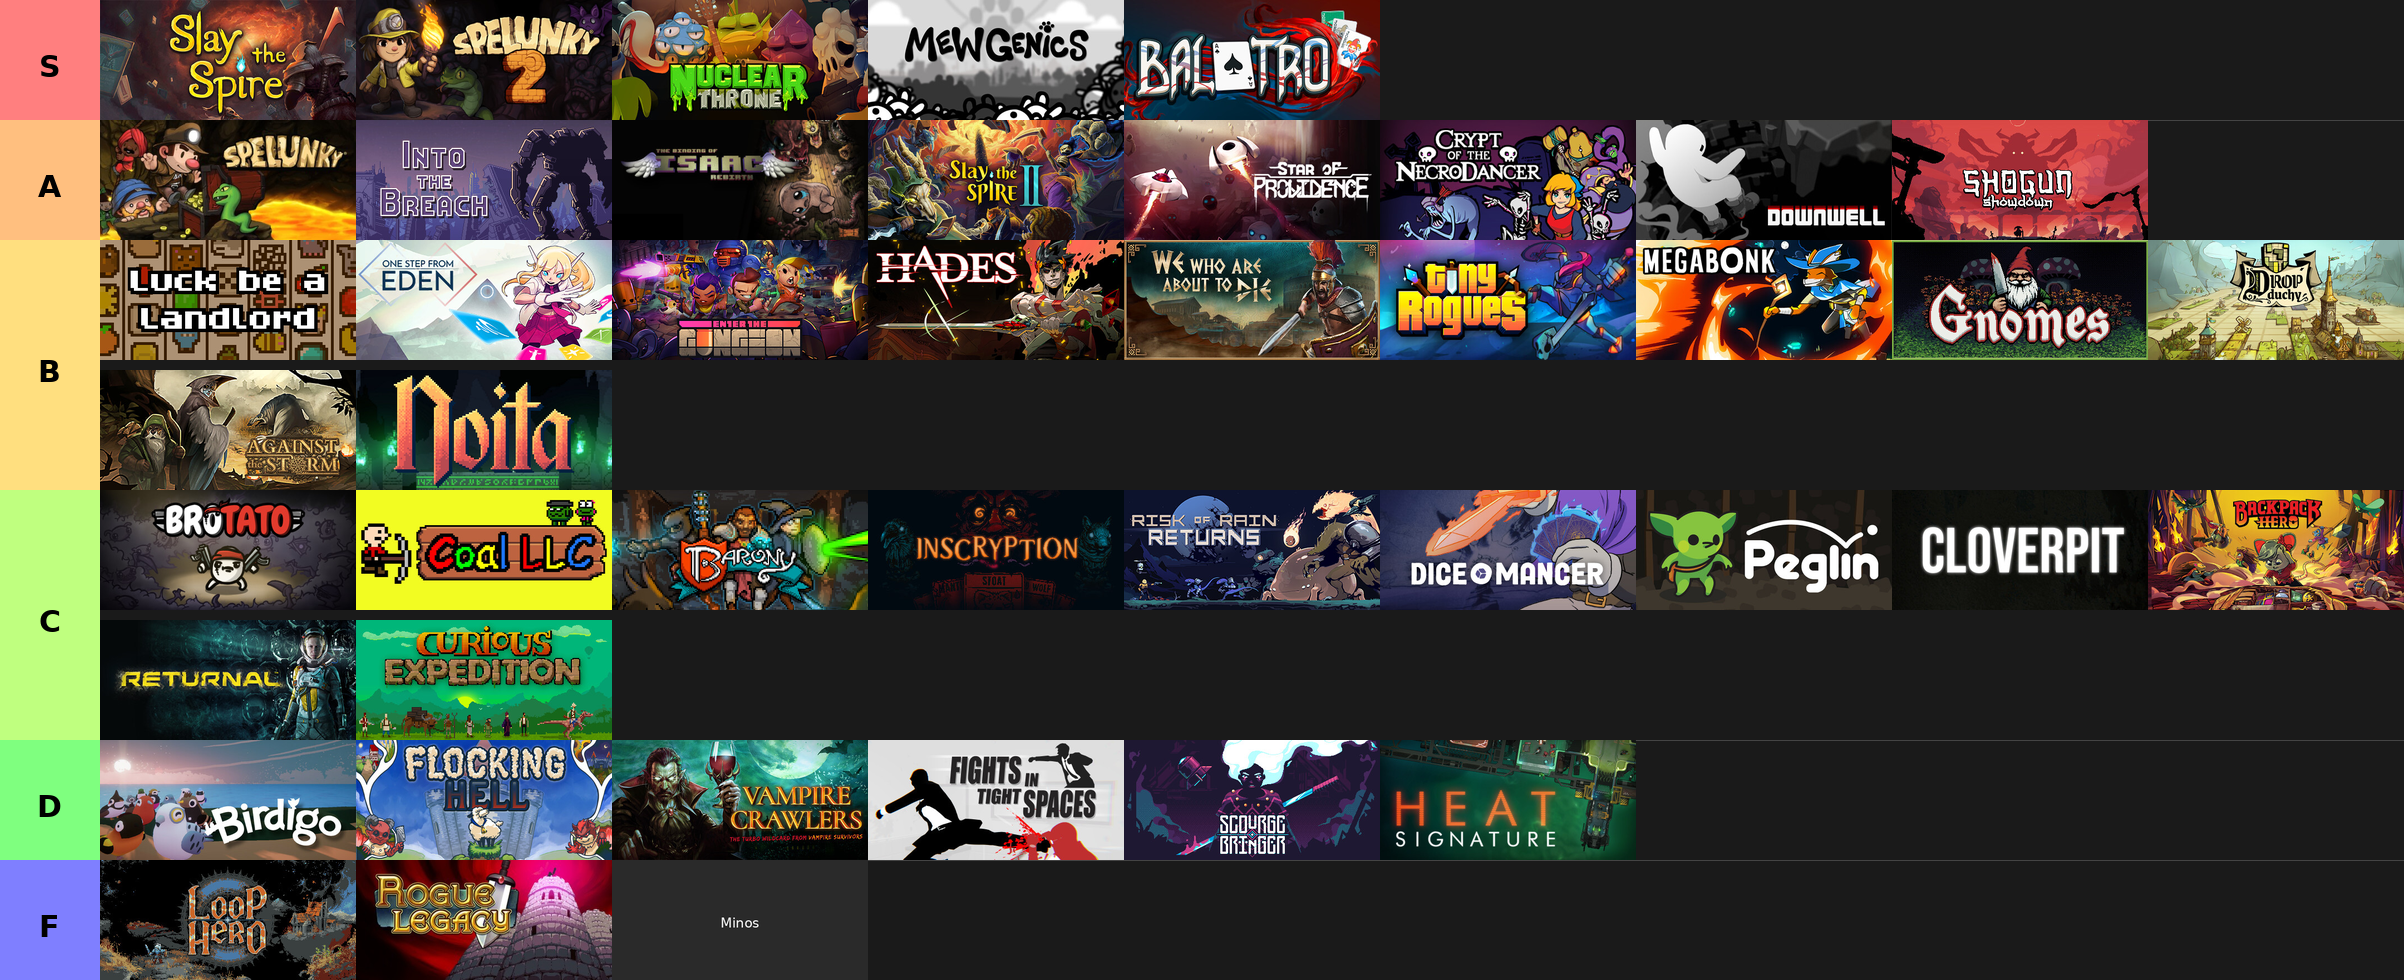
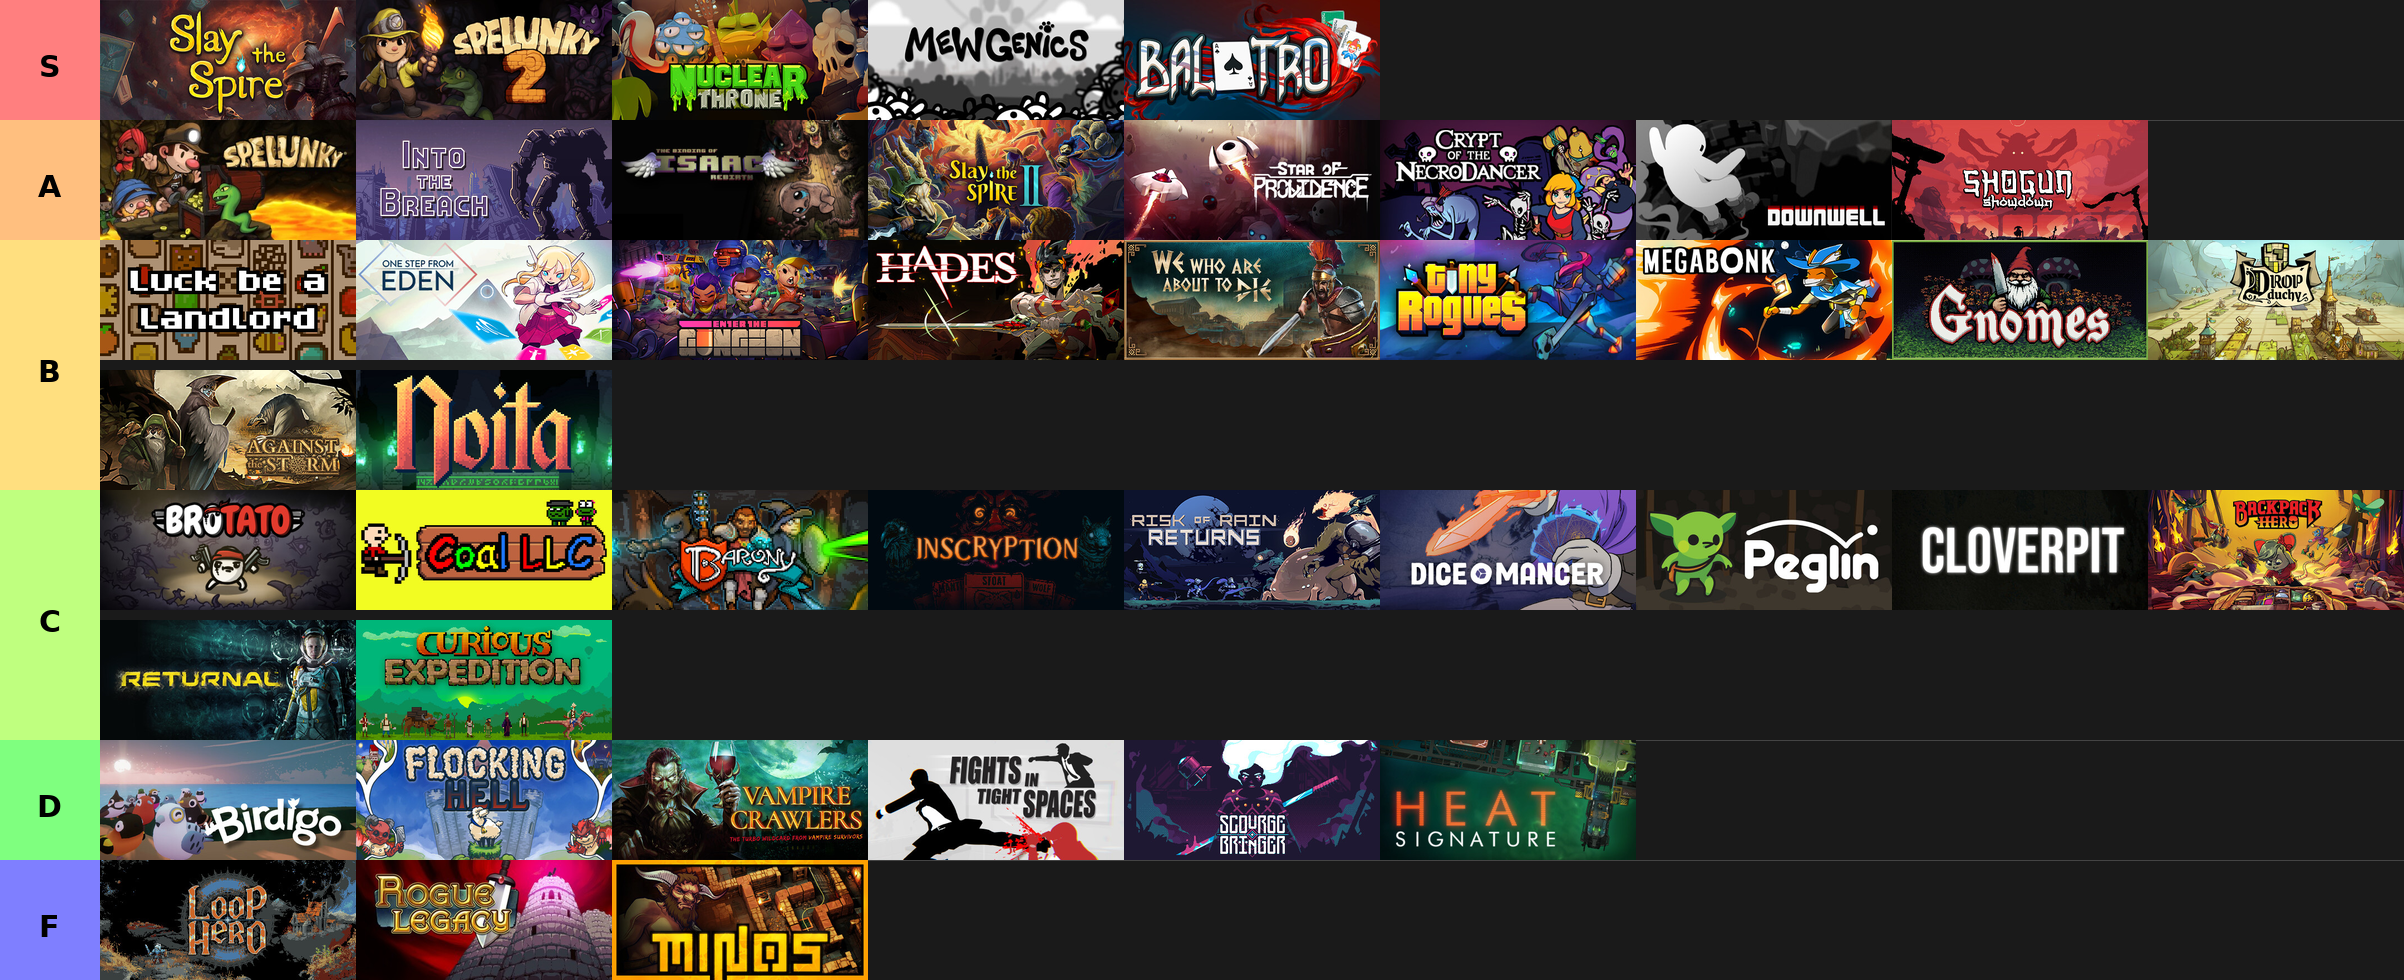
Fix Steam header image lookup for games using hashed CDN URLs
Some newer Steam games (e.g. Minos) return 404 from the standard
cdn.akamai CDN path. Fall back to the appdetails API to get the
actual header_image URL when that happens. Also adds cached Minos.jpg
and regenerated tierlist.png.

Changed region(s): [[0.2496, 0.8571, 0.3744, 1.0]]

diff --git a/scripts/tier_list_generator.py b/scripts/tier_list_generator.py
@@ -164,21 +164,35 @@ class TierListGenerator:
         
         if app_id:
             try:
-                # Download the header image
+                # Try the standard CDN URL first
                 header_url = f"https://cdn.akamai.steamstatic.com/steam/apps/{app_id}/header.jpg"
-                
+
                 self.vprint(f"Downloading header image for {game_name} (ID: {app_id})")
-                
+
                 response = requests.get(header_url, timeout=15)
+
+                # Some newer games use a hashed URL; fall back to appdetails for the real URL
+                if response.status_code == 404:
+                    self.vprint(f"Standard CDN URL 404 for {game_name}, fetching URL from appdetails API")
+                    details_url = f"https://store.steampowered.com/api/appdetails?appids={app_id}&filters=basic"
+                    details_resp = requests.get(details_url, timeout=10)
+                    details_resp.raise_for_status()
+                    details_data = details_resp.json()
+                    header_url = details_data.get(str(app_id), {}).get("data", {}).get("header_image")
+                    if not header_url:
+                        raise ValueError(f"No header_image in appdetails for app {app_id}")
+                    self.vprint(f"Using appdetails header URL: {header_url}")
+                    response = requests.get(header_url, timeout=15)
+
                 response.raise_for_status()
-                
+
                 # Save to cache
                 with open(image_path, 'wb') as f:
                     f.write(response.content)
-                
+
                 # Open and return the image
                 return Image.open(image_path)
-                
+
             except Exception as e:
                 self.vprint(f"Error downloading header image for {game_name}: {e}")
         
